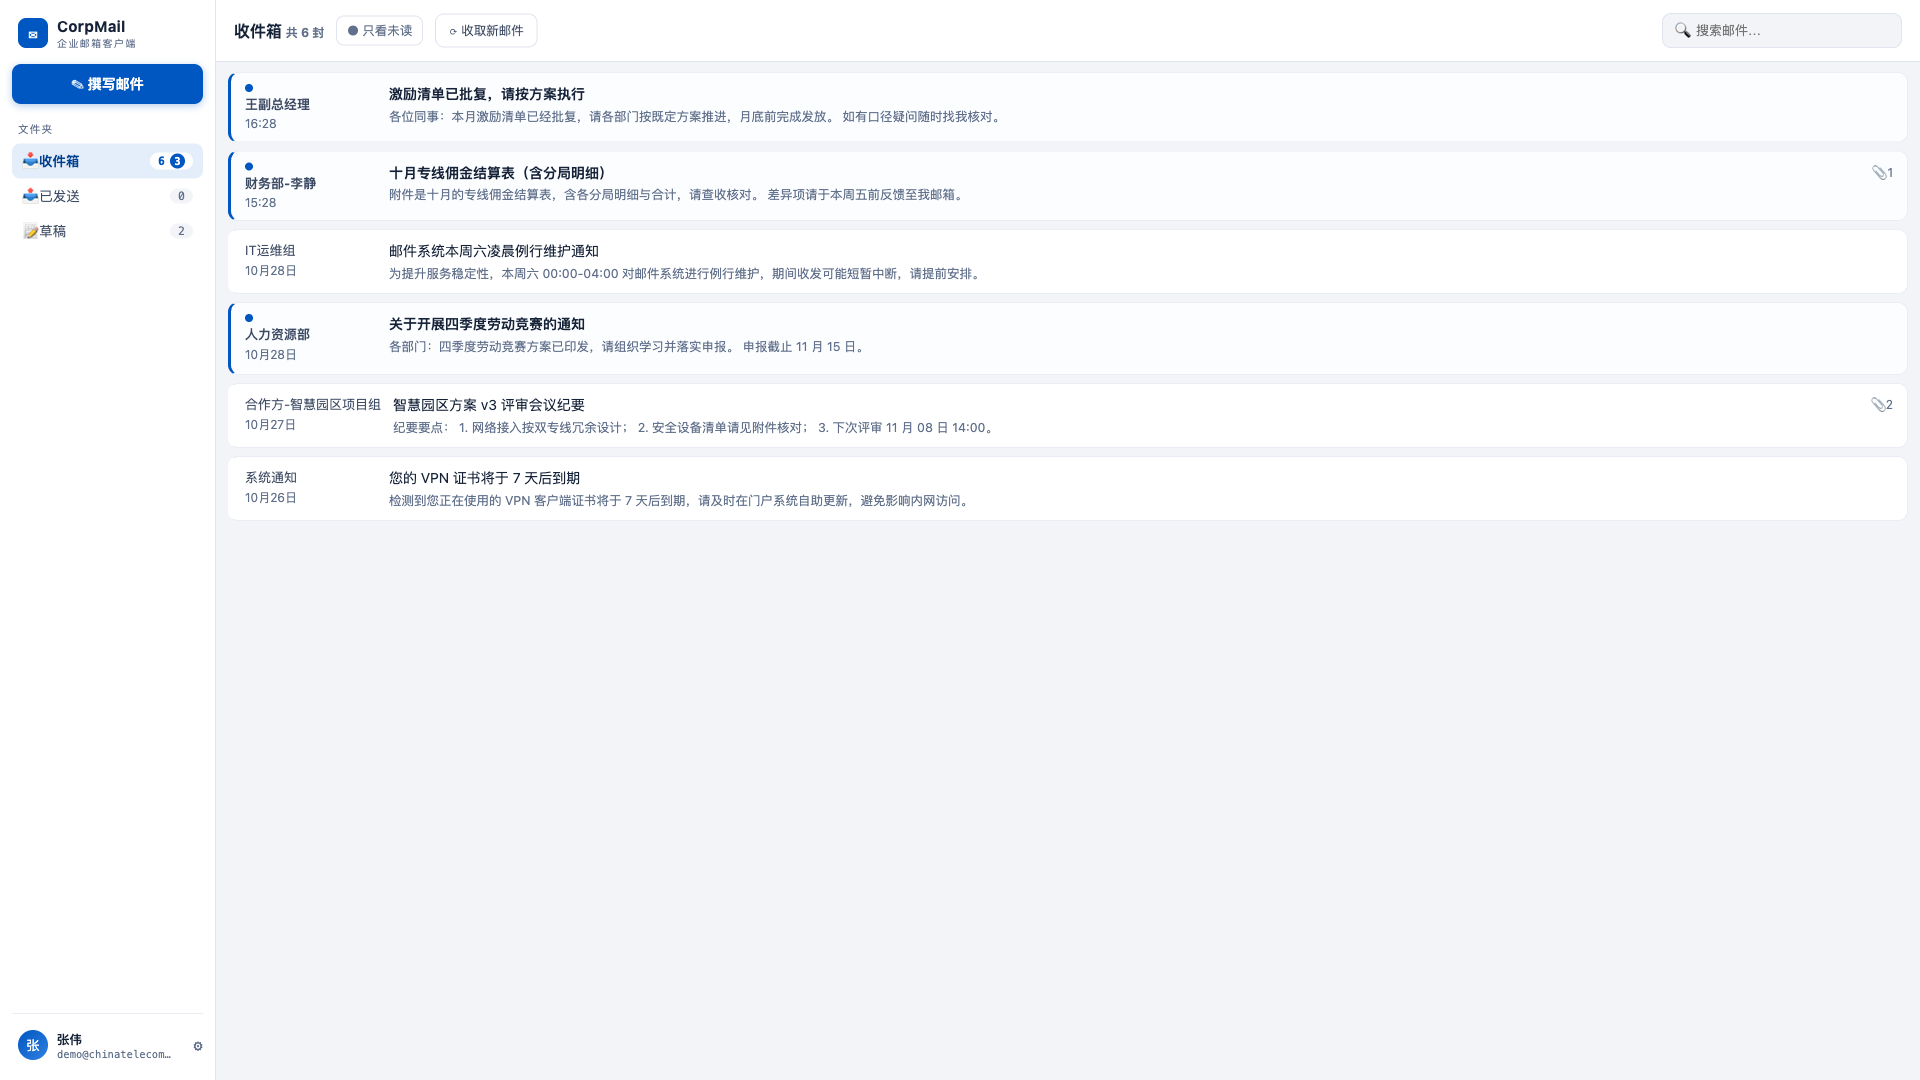
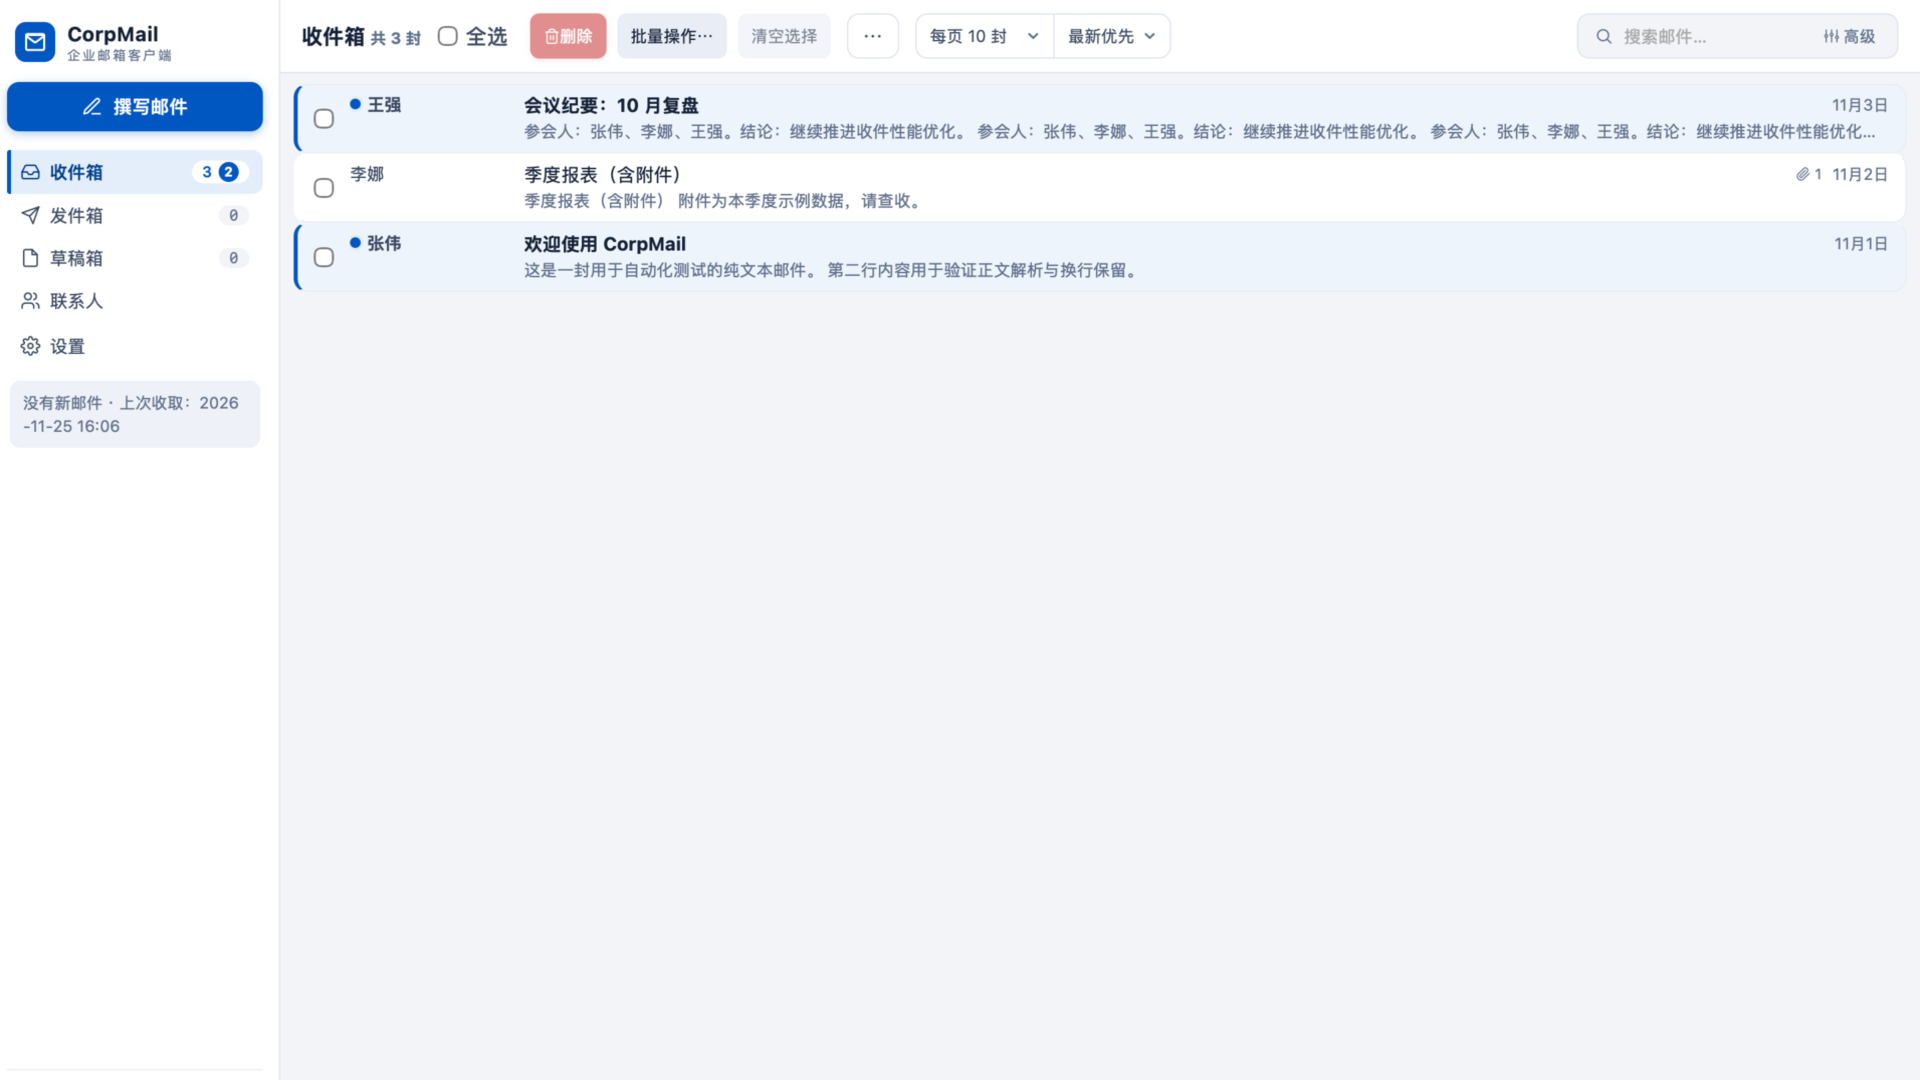
docs(store): 按 0.3.0 现状更新微软商店上架素材

diff --git a/store-assets/msix/README.md b/store-assets/msix/README.md
@@ -7,8 +7,8 @@
 ```
 store-assets/
 ├── msix/
-│   ├── AppxManifest.xml     # 商店包清单（Identity.Name=corpmail 已定稿；Publisher 为占位）
-│   ├── assets/              # 全套商店图标（像素风，最近邻放大无损）
+│   ├── AppxManifest.xml     # 商店包清单（Identity.Name=JonathanHuang.corpmail + Publisher CN 均已定稿）
+│   ├── assets/              # 全套商店图标（蓝底白色信封，脚本 gen-icons.py 生成）
 │   └── （out/ 构建产物，不入库）
 ├── listing/
 │   └── store-listing.md     # Partner Center 逐字段对照表（中英双语）
@@ -38,14 +38,23 @@ store-assets/
 
 | 文件 | 场景 |
 |---|---|
-| `01-main-inbox.png` | 收件箱（6 封真实感种子：未读点/附件夹/近期时间） |
-| `02-detail-attachments.png` | 邮件详情 + 附件区 |
-| `03-compose.png` | 撰写（含已填示例内容） |
-| `04-search.png` | 全文检索高亮命中 |
-| `05-storage.png` | 存储管理（占用/清理策略） |
+| `01-main-inbox.png` | 收件箱（3 封种子：未读点、附件标记、侧栏计数） |
+| `02-detail-attachments.png` | 邮件详情 + 附件区（置顶/转发/回复/删除顶栏） |
+| `03-compose.png` | 撰写页（收件人/抄送/主题/正文/附件 + 模板下拉 + 定时发送） |
+| `04-search.png` | 中文关键词检索，命中词高亮 |
+| `05-storage.png` | 设置·存储管理（六 tab：发信/收信/收件同步/存储管理/模板/关于） |
 
-截图由 `.temp/smoke-html`（`cargo test dump_smoke_html -- --ignored` 导出）在
-1920×1080 视口下渲染获得，与发行物同源同 CSS。
+截图取自当前版本的三阶段 E2E 实机渲染（`e2e/run.sh` 产物），从 2880×1802 的
+HiDPI 截图缩放到 1920×1080，与发行代码同源。E2E 跑完后可按下列命令再生成：
+
+```bash
+SRC=e2e/artifacts/<运行ID>
+magick "$SRC/002-列表-取消未读过滤.png"       -resize 1920x -gravity north -crop 1920x1080+0+0 +repage store-assets/screenshots/01-main-inbox.png
+magick "$SRC/001-读信-正文与附件.png"         -resize 1920x -gravity north -crop 1920x1080+0+0 +repage store-assets/screenshots/02-detail-attachments.png
+magick "$SRC/002-撰写-初始态含模板下拉.png"   -resize 1920x -gravity north -crop 1920x1080+0+0 +repage store-assets/screenshots/03-compose.png
+magick "$SRC/003-检索-中文关键词命中.png"     -resize 1920x -gravity north -crop 1920x1080+0+0 +repage store-assets/screenshots/04-search.png
+magick "$SRC/004-设置-存储管理.png"           -resize 1920x -gravity north -crop 1920x1080+0+0 +repage store-assets/screenshots/05-storage.png
+```
 
 ## 构建流程（Windows 机上）
 

diff --git a/store-assets/RELEASE_PLAN.md b/store-assets/RELEASE_PLAN.md
@@ -1,7 +1,10 @@
 # CorpMail · Microsoft Store 上架方案
 
-> 版本：v1.2（2026-10-30）｜目标版本 0.3.0｜保留名 JonathanHuang.corpmail
+> 版本：v1.3（2026-11-26）｜目标版本 0.3.0｜保留名 JonathanHuang.corpmail
 > 本文档为执行总纲：阶段、步骤、责任分工、提交物与回退策略。
+> v1.3 修订：商店截图 5 张全部换为当前版本 E2E 实机渲染（原图为 2026-10-29
+> 旧 UI，设置页 4 tab / mailbox.toml，与 0.3.0 不符）；listing 隐私描述对齐
+> `PRIVACY.zh-CN.md`（远程图片默认关闭、凭据降级）、图标描述改为蓝白信封。
 > v1.2 修订：打包改用 WinApp CLI（免装 Windows SDK，只出未签名包）；
 > WACK 预检移除（非必要，商店认证自带检测），tag 收尾改为商店提交后。
 
@@ -10,7 +13,7 @@
 ## 一、总体路线
 
 ```
-[阶段 0] 资产定稿（本次会话完成）
+[阶段 0] 资产定稿（已完成，见第七节状态清单）
     ↓
 [阶段 1] 构建商店包（Windows 机，你执行）
     ↓
@@ -120,11 +123,11 @@ powershell -ExecutionPolicy Bypass -File scripts\build-msix.ps1
 | AppxManifest（Identity/Publisher/语言 zh-CN/虚拟化禁用） | ✅ 定稿 |
 | 商店图标 6 规格（44/50/150/310/620 + Wide） | ✅ |
 | listing 中英双语 + 认证备注英文 | ✅ |
-| 隐私声明（zh-CN 主用 + en-US 备用） | ✅ 本次推根目录公开路径 |
-| 截图 5 张 1920×1080 | ✅ |
+| 隐私声明（zh-CN 主用 + en-US 备用） | ✅ 仓库根目录公开路径，listing 描述已对齐 |
+| 截图 5 张 1920×1080 | ✅ 2026-11-26 换为当前版本 E2E 实机渲染（原 2026-10-29 旧 UI 已弃用） |
 | build-msix.ps1（PowerShell 原生，WinApp CLI 打包） | ✅ |
 | 版本 0.3.0 全链统一 | ✅ |
 | identifier/数据目录 com.corpmail.desktop | ✅ 本版统一（无存量用户，无需迁移） |
 | 品牌（productName=CorpMail；窗口标题/托盘菜单中文名「企业邮箱客户端」） | ✅ 本版统一 |
-| 公开隐私文档路径（仓库根） | ✅ 本次修复（原 docs/ 整体在 .gitignore，链接会 404） |
+| 公开隐私文档路径（仓库根） | ✅ 已修复（原 docs/ 整体在 .gitignore，链接会 404） |
 | GitHub 仓库迁移至 corpmail（原 mailbox 仓库停用为历史归档） | ✅ 已迁移（商店隐私链接等全链指向新仓库） |
